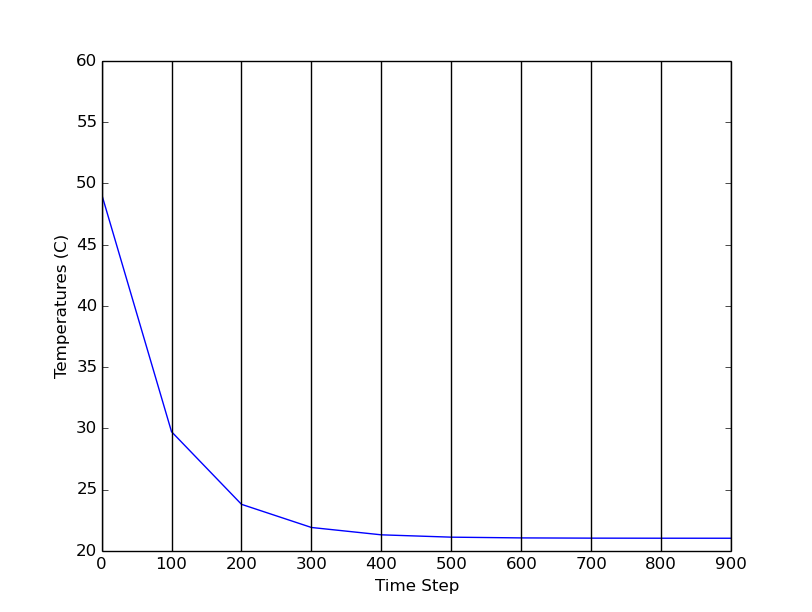
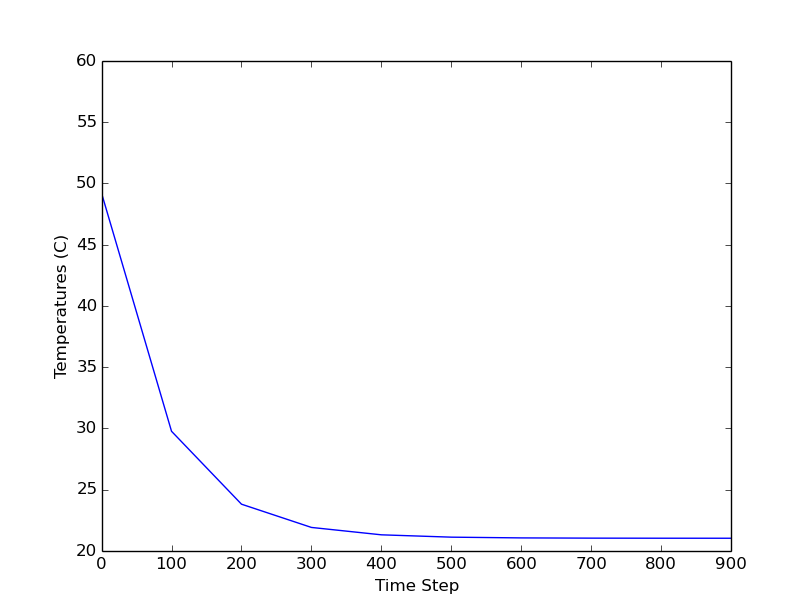
Updated graph

diff --git a/main.py b/main.py
@@ -107,7 +107,7 @@ class Big:
                 meanStd = self.TempStatistics()
                 mean = meanStd[0]
                 std = meanStd[1]
-                plt.show()
+                #plt.show()
                 times.append(t)
                 means.append(mean)
                 stds.append(std)
@@ -229,7 +229,7 @@ class Big:
         plt.clim()
         plt.title("Temperature of Bathtub (time_step:" + str(t) + ")\n")
         plt.plot([-2,self.y_size], [1,1], '-k')
-        plt.show()
+        #plt.show()
 
 
 
@@ -492,8 +492,8 @@ for data in bigData:
 
 for p in prints:
   print p
-for x in times:
-  plt.plot([x, x], [ylow, yhigh], 'k')
+#for x in times:
+  #plt.plot([x, x], [ylow, yhigh], 'k')
 
 plt.xlabel("Time Step")
 plt.ylabel("Temperatures (C)")
